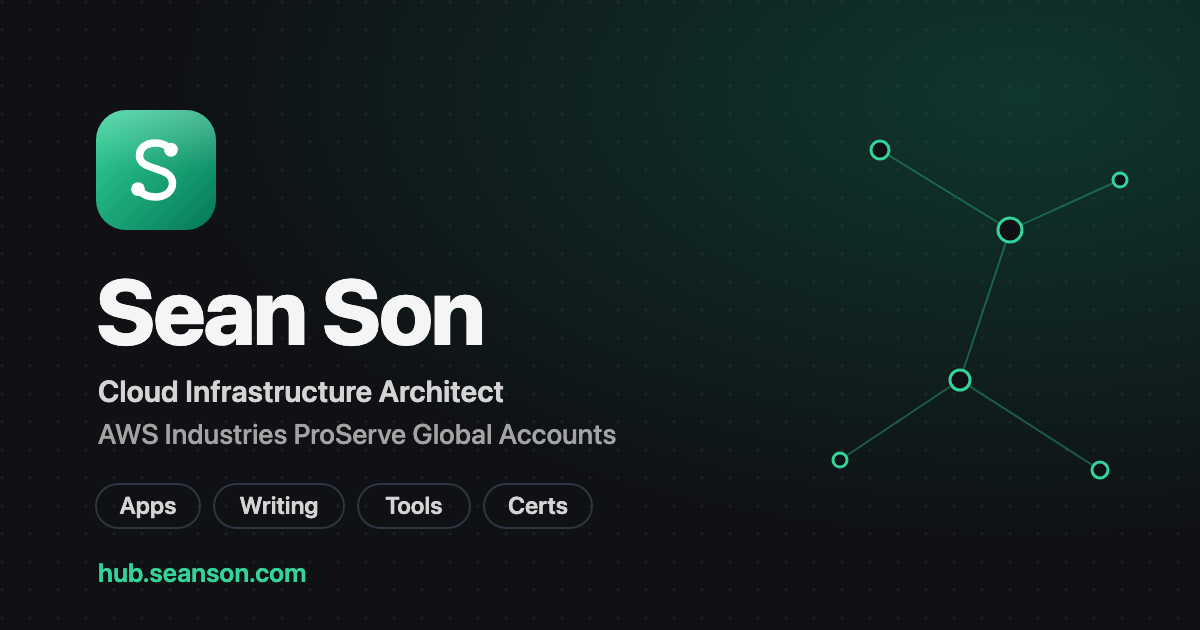
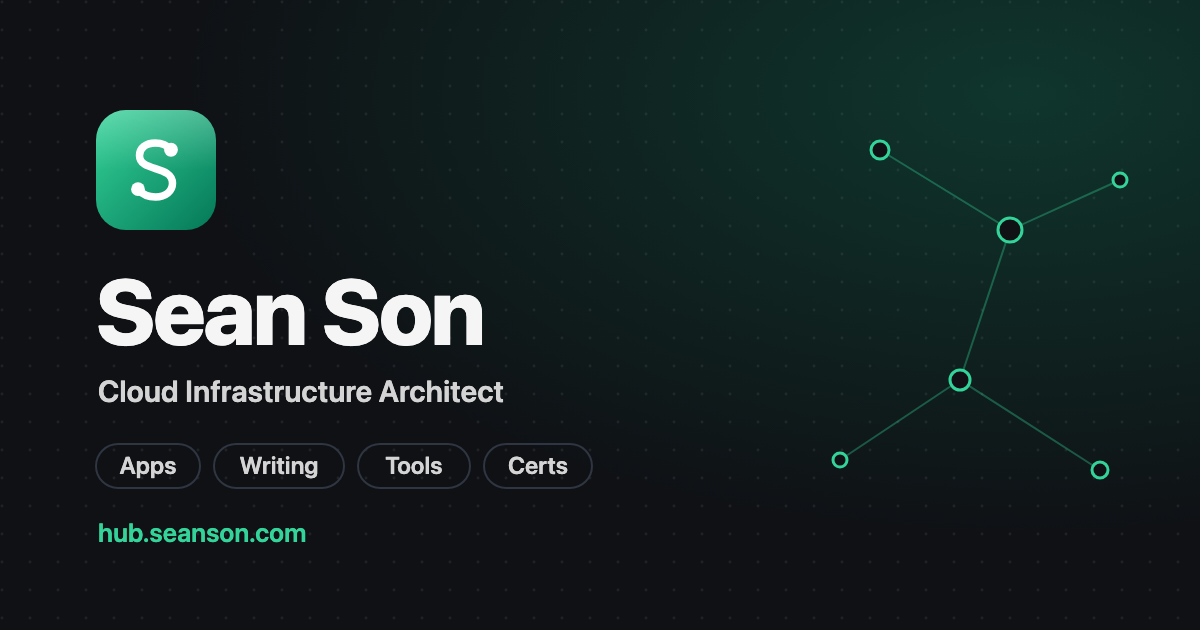
profile: 소속 회사 표기 제거(role·footer·og), Writing에 velog 7편 반영(Bedrock 1~4 분할, LZA 3)

Changed region(s): [[0.0617, 0.6635, 0.5242, 0.8746], [0.0617, 0.9048, 0.2775, 0.9349]]

diff --git a/src/data/site.ts b/src/data/site.ts
@@ -3,11 +3,11 @@
 
 export const profile = {
   name: 'Sean Son',
-  role: 'Cloud Infrastructure Architect · AWS Industries ProServe Global Accounts',
-  // footer on every page: personal site, not affiliated with / endorsed by the employer
+  role: 'Cloud Infrastructure Architect',
+  // footer on every page
   disclaimer:
-    '개인 프로젝트입니다. 이 사이트의 글·앱·도구는 개인 의견과 작업이며, 소속 회사(Amazon Web Services)의 공식 입장이나 서비스와 무관합니다.',
-  disclaimerEn: 'Personal project. Views and work here are my own and do not represent Amazon Web Services.',
+    '개인 프로젝트입니다. 이 사이트의 글·앱·도구는 모두 개인 의견과 작업입니다.',
+  disclaimerEn: 'Personal project. Views and work here are my own.',
   tagline:
     'AWS 위에서 네트워크·랜딩존·AI 워크로드 플랫폼을 설계하고, 불편한 건 직접 만들어 씁니다.',
   location: 'Seoul, KR',
@@ -96,20 +96,38 @@ export type Post = {
 
 export const posts: Post[] = [
   {
+    title: '쉽게 따라하는 Amazon Bedrock으로 나만의 AI 어시스턴트 만들기 (4) - iPhone App 마무리: 설정 화면, 실기기, Markdown',
+    url: 'https://velog.io/@seanson2709/%EC%89%BD%EA%B2%8C-%EB%94%B0%EB%9D%BC%ED%95%98%EB%8A%94-Amazon-Bedrock%EC%9C%BC%EB%A1%9C-%EB%82%98%EB%A7%8C%EC%9D%98-AI-%EC%96%B4%EC%8B%9C%EC%8A%A4%ED%84%B4%ED%8A%B8-%EB%A7%8C%EB%93%A4%EA%B8%B0-4-iPhone-App-%EB%A7%88%EB%AC%B4%EB%A6%AC-%EC%84%A4%EC%A0%95-%ED%99%94%EB%A9%B4-%EC%8B%A4%EA%B8%B0%EA%B8%B0-Markdown',
+    date: '2026-10-03',
+    tags: ['aws', 'bedrock', 'ios', 'swiftui'],
+  },
+  {
+    title: '쉽게 따라하는 Amazon Bedrock으로 나만의 AI 어시스턴트 만들기 (2) - 대화 기억, 도구 호출, SSE Server',
+    url: 'https://velog.io/@seanson2709/%EC%89%BD%EA%B2%8C-%EB%94%B0%EB%9D%BC%ED%95%98%EB%8A%94-Amazon-Bedrock%EC%9C%BC%EB%A1%9C-%EB%82%98%EB%A7%8C%EC%9D%98-AI-%EC%96%B4%EC%8B%9C%EC%8A%A4%ED%84%B4%ED%8A%B8-%EB%A7%8C%EB%93%A4%EA%B8%B0-2-%EB%8C%80%ED%99%94-%EA%B8%B0%EC%96%B5-%EB%8F%84%EA%B5%AC-%ED%98%B8%EC%B6%9C-SSE-Server',
+    date: '2026-10-03',
+    tags: ['aws', 'bedrock', 'python', 'fastapi', 'sse'],
+  },
+  {
+    title: '쉽게 따라하는 LZA를 활용한 AWS Control Tower 구축 (3) - Transit Gateway / VPC Network 구성',
+    url: 'https://velog.io/@seanson2709/%EC%89%BD%EA%B2%8C-%EB%94%B0%EB%9D%BC%ED%95%98%EB%8A%94-LZA%EB%A5%BC-%ED%99%9C%EC%9A%A9%ED%95%9C-AWS-Control-Tower-%EA%B5%AC%EC%B6%95-3-Transit-Gateway-VPC-%EB%84%A4%ED%8A%B8%EC%9B%8C%ED%81%AC-%EA%B5%AC%EC%84%B1',
+    date: '2026-10-03',
+    tags: ['aws', 'lza', 'control-tower', 'transit-gateway', 'vpc'],
+  },
+  {
     title: '쉽게 따라하는 LZA를 활용한 AWS Control Tower 구축 (2) - OU / 계정 / SCP를 코드로 관리하기',
     url: 'https://velog.io/@seanson2709/%EC%89%BD%EA%B2%8C-%EB%94%B0%EB%9D%BC%ED%95%98%EB%8A%94-LZA%EB%A5%BC-%ED%99%9C%EC%9A%A9%ED%95%9C-AWS-Control-Tower-%EA%B5%AC%EC%B6%95-2-OU-%EA%B3%84%EC%A0%95-SCP%EB%A5%BC-%EC%BD%94%EB%93%9C%EB%A1%9C-%EA%B4%80%EB%A6%AC%ED%95%98%EA%B8%B0',
     date: '2026-09-24',
     tags: ['aws', 'lza', 'control-tower', 'organizations', 'scp'],
   },
   {
-    title: '쉽게 따라하는 Amazon Bedrock으로 나만의 AI 어시스턴트 만들기 (2) — iPhone 앱 붙이기: SwiftUI + SSE',
-    url: 'https://velog.io/@seanson2709/%EC%89%BD%EA%B2%8C-%EB%94%B0%EB%9D%BC%ED%95%98%EB%8A%94-Amazon-Bedrock%EC%9C%BC%EB%A1%9C-%EB%82%98%EB%A7%8C%EC%9D%98-AI-%EC%96%B4%EC%8B%9C%EC%8A%A4%ED%84%B4%ED%8A%B8-%EB%A7%8C%EB%93%A4%EA%B8%B0-2-iPhone-%EC%95%B1-%EB%B6%99%EC%9D%B4%EA%B8%B0-SwiftUI-SSE',
+    title: '쉽게 따라하는 Amazon Bedrock으로 나만의 AI 어시스턴트 만들기 (3) - iPhone App 만들기: SwiftUI + SSE',
+    url: 'https://velog.io/@seanson2709/%EC%89%BD%EA%B2%8C-%EB%94%B0%EB%9D%BC%ED%95%98%EB%8A%94-Amazon-Bedrock%EC%9C%BC%EB%A1%9C-%EB%82%98%EB%A7%8C%EC%9D%98-AI-%EC%96%B4%EC%8B%9C%EC%8A%A4%ED%84%B4%ED%8A%B8-%EB%A7%8C%EB%93%A4%EA%B8%B0-3-iPhone-App-%EB%A7%8C%EB%93%A4%EA%B8%B0-SwiftUI-SSE',
     date: '2026-09-22',
     tags: ['aws', 'bedrock', 'ios', 'swiftui', 'sse'],
   },
   {
-    title: '쉽게 따라하는 Amazon Bedrock으로 나만의 AI 어시스턴트 만들기 (1) — 첫 호출부터 대화·도구 호출까지',
-    url: 'https://velog.io/@seanson2709/%EC%89%BD%EA%B2%8C-%EB%94%B0%EB%9D%BC%ED%95%98%EB%8A%94-Amazon-Bedrock%EC%9C%BC%EB%A1%9C-%EB%82%98%EB%A7%8C%EC%9D%98-AI-%EC%96%B4%EC%8B%9C%EC%8A%A4%ED%84%B4%ED%8A%B8-%EB%A7%8C%EB%93%A4%EA%B8%B0-1-%EC%B2%AB-%ED%98%B8%EC%B6%9C%EB%B6%80%ED%84%B0-%EB%8C%80%ED%99%94%EB%8F%84%EA%B5%AC-%ED%98%B8%EC%B6%9C%EA%B9%8C%EC%A7%80',
+    title: '쉽게 따라하는 Amazon Bedrock으로 나만의 AI 어시스턴트 만들기 (1) - 첫 호출부터 Streaming까지',
+    url: 'https://velog.io/@seanson2709/%EC%89%BD%EA%B2%8C-%EB%94%B0%EB%9D%BC%ED%95%98%EB%8A%94-Amazon-Bedrock%EC%9C%BC%EB%A1%9C-%EB%82%98%EB%A7%8C%EC%9D%98-AI-%EC%96%B4%EC%8B%9C%EC%8A%A4%ED%84%B4%ED%8A%B8-%EB%A7%8C%EB%93%A4%EA%B8%B0-1-%EC%B2%AB-%ED%98%B8%EC%B6%9C%EB%B6%80%ED%84%B0-Streaming%EA%B9%8C%EC%A7%80',
     date: '2026-09-20',
     tags: ['aws', 'bedrock', 'python', 'boto3'],
   },
